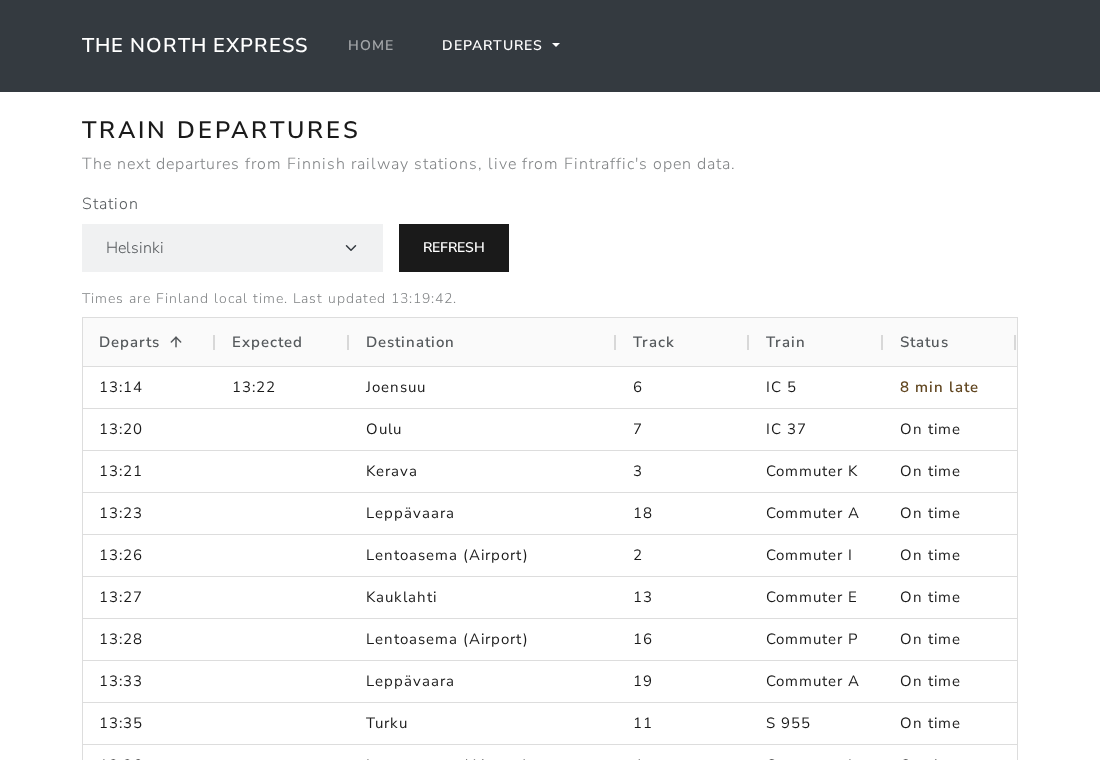
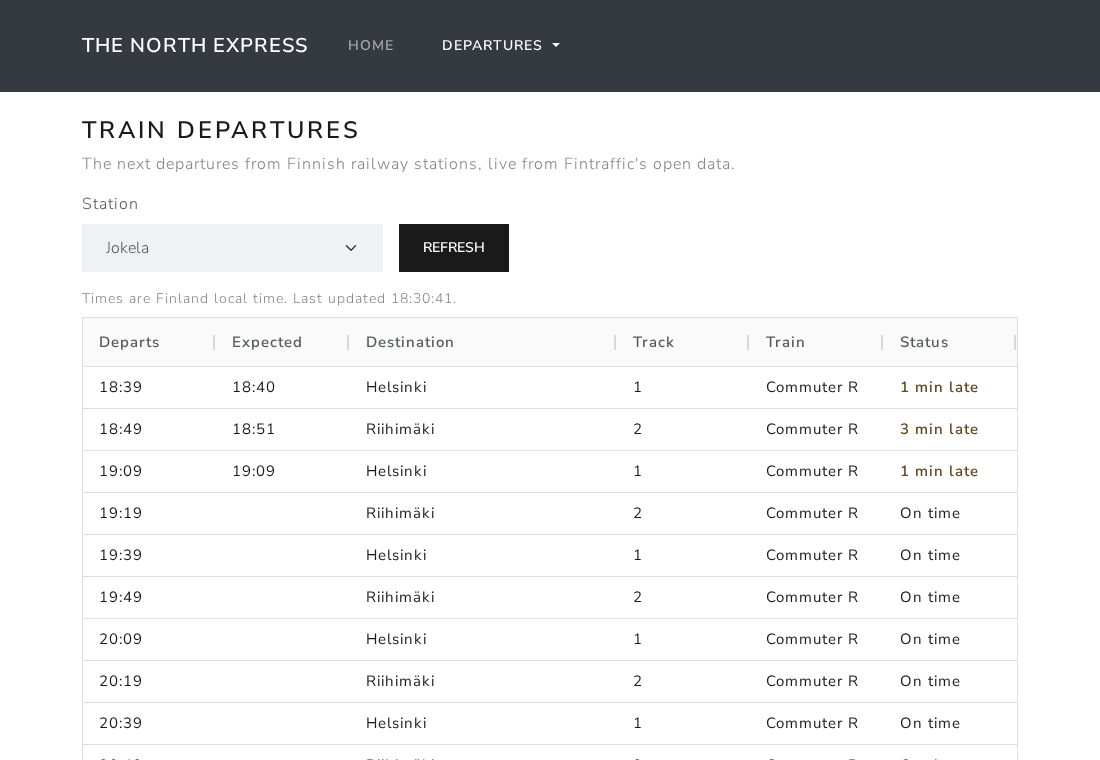
docs: add Status to CONTEXT.md and refresh the README screenshot

diff --git a/CONTEXT.md b/CONTEXT.md
@@ -12,6 +12,10 @@ _Avoid_: stop, asema, location
 One train leaving one station: its scheduled and expected time, destination, track, train (IC 25, Commuter M) and status (On time, 2 min late, Cancelled). Cargo trains and shunting moves never make departures.
 _Avoid_: train (one train makes many departures), trip, service
 
+**Status**:
+Whether a departure is on time, late by whole minutes, or cancelled. A train running early counts as on time. A departure is cancelled when the whole train is, or only its stop at this station.
+_Avoid_: delay (an on-time departure has a status too), state
+
 **Boardable stop**:
 A stop in a train's timetable where passengers can get on: the train stops there and it is a commercial stop. Technical stops and stations the train runs through are not boardable, so they never become departures.
 _Avoid_: stop on its own, halt, call

diff --git a/README.md b/README.md
@@ -1,10 +1,10 @@
 # The North Express
 
-Live train departures for Finnish railway stations. Pick a station, get the next trains with their destination, track and delay.
+Live train departures for Finnish railway stations. Pick a station, get the next trains with their destination, track and status.
 
 https://north-express.app.rgpl.xyz
 
-![Departures from Helsinki](docs/departures.png)
+![Departures from Jokela](docs/departures.png)
 
 Train data is from [Digitraffic](https://www.digitraffic.fi/en/) by Fintraffic, licensed [CC BY 4.0](https://creativecommons.org/licenses/by/4.0/). It needs no API key.
 
